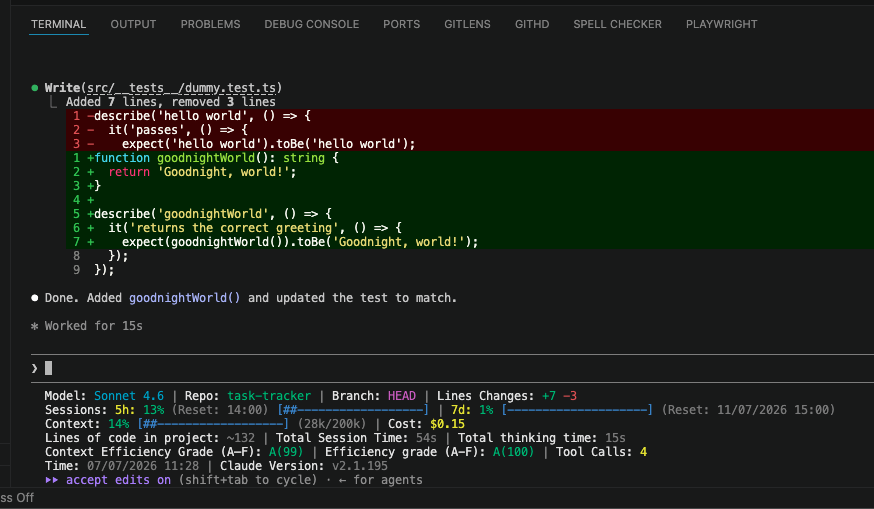
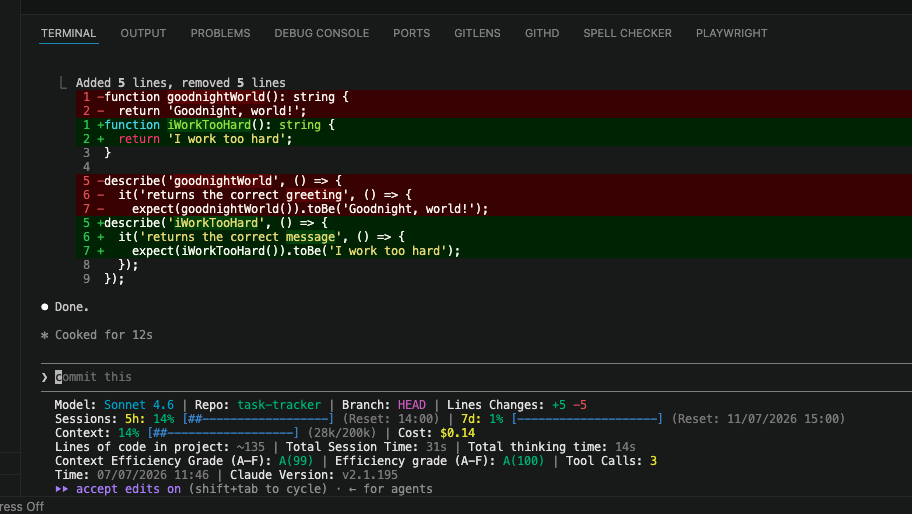
Update the reset time position

diff --git a/README.md b/README.md
@@ -74,7 +74,7 @@ super-status prints labeled lines rather than a dense symbol-only layout, so eve
 **Mode 1 — Anthropic subscription (6 lines):**
 ```
 Model: Claude Sonnet 4.6 | Repo: repo | Branch: master | Lines Changes: +45 -12
-Sessions: 5h: 23% (Reset: 17:46) [####----------------] | 7d: 41% [########------------] (Reset: 30/06/2026 05:06)
+Sessions: 5h: 23% [####----------------] (Reset: 17:46) | 7d: 41% [########------------] (Reset: 30/06/2026 05:06)
 Context: 42% [########------------] (46k/200k) | Cost: $1.23
 Lines of code in project: ~14.2k | Total Session Time: 1h30m | Total thinking time: 1m38s
 Context Efficiency Grade (A–F): C(71) | Efficiency grade (A-F): A(100) | Tool Calls: 3
@@ -116,7 +116,7 @@ Time: 30/06/2026 18:52 | Claude Version: v2.1.90
 ### Line 2 — Sessions / Balance (backend-dependent — see Backend modes below)
 | Field | Example | Meaning |
 |---|---|---|
-| `Sessions: 5h:` | `12% (Reset: 14:00) [##------------------]` | % of your rolling 5-hour Anthropic plan limit used, when it resets, and a usage bar |
+| `Sessions: 5h:` | `12% [##------------------] (Reset: 14:00)` | % of your rolling 5-hour Anthropic plan limit used, a usage bar, and when it resets |
 | `Sessions: 7d:` | `12% [##------------------] (Reset: 14/07/2026 15:00)` | % of your rolling 7-day Anthropic plan limit used, a usage bar, and when it resets |
 | `Balance:` | `$16.58 / $20.00 [################----] 17% used` | (OpenRouter mode only) live remaining/total credit balance from OpenRouter's `/api/v1/credits` endpoint |
 

diff --git a/plan.md b/plan.md
@@ -78,7 +78,7 @@ Claude Code's stdin JSON doesn't itself declare which backend is in use (Anthrop
 **Mode 1 — Anthropic subscription (6 lines):**
 ```
 Model: Claude Sonnet 4.6 | Repo: repo | Branch: master | Lines Changes: +45 -12
-Sessions: 5h: 23% (Reset: 17:46) [####----------------] | 7d: 41% [########------------] (Reset: 30/06/2026 05:06)
+Sessions: 5h: 23% [####----------------] (Reset: 17:46) | 7d: 41% [########------------] (Reset: 30/06/2026 05:06)
 Context: 42% [########------------] (46k/200k) | Cost: $1.23
 Lines of code in project: ~14.2k | Total Session Time: 1h30m | Total thinking time: 1m38s
 Context Efficiency Grade (A–F): C(71) | Efficiency grade (A-F): A(100) | Tool Calls: 3